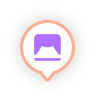
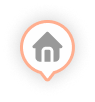
🎨 핀 이미지 추가

Changed region(s): [[0.3368, 0.2941, 0.6737, 0.6176]]

diff --git a/src/utils/getMapPinImage.ts b/src/utils/getMapPinImage.ts
@@ -11,14 +11,14 @@ export function getMapPinImage(list?: string | null) {
       return require("@/assets/images/pin-restaurant.png");
     case "술집":
       return require("@/assets/images/pin-bar.png");
-    // case "전시회":
-    //   return require("@/assets/images/pin-exhibition.png");
-    // case "디저트":
-    //   return require("@/assets/images/pin-dessert.png");
-    // case "소품샵":
-    //   return require("@/assets/images/pin-goods.png");
-    // case "체험":
-    //   return require("@/assets/images/pin-experience.png");
+    case "전시회":
+      return require("@/assets/images/pin-exhibition.png");
+    case "디저트":
+      return require("@/assets/images/pin-dessert.png");
+    case "소품샵":
+      return require("@/assets/images/pin-goods.png");
+    case "체험":
+      return require("@/assets/images/pin-experience.png");
     // case "기타":
     default:
       return require("@/assets/images/pin-etc.png");

diff --git a/app/place/[placeId].tsx b/app/place/[placeId].tsx
@@ -5,7 +5,6 @@ import {
   ScrollView,
   StyleSheet,
   Image,
-  Pressable,
   FlatList,
   NativeScrollEvent,
   NativeSyntheticEvent,
